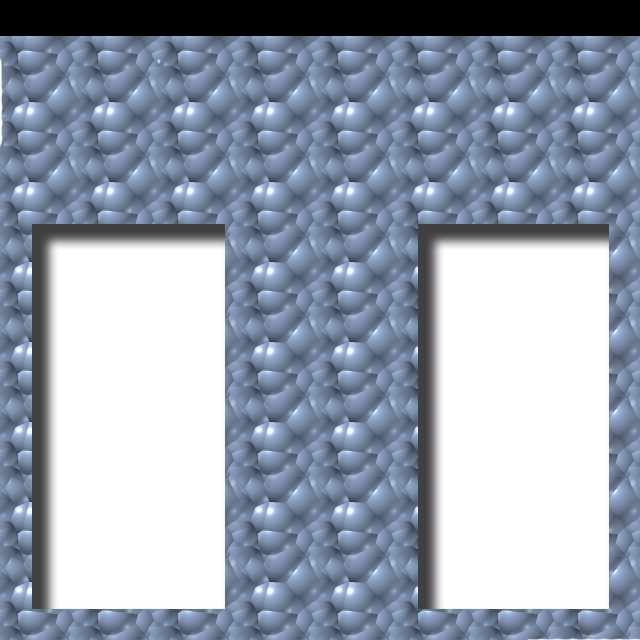
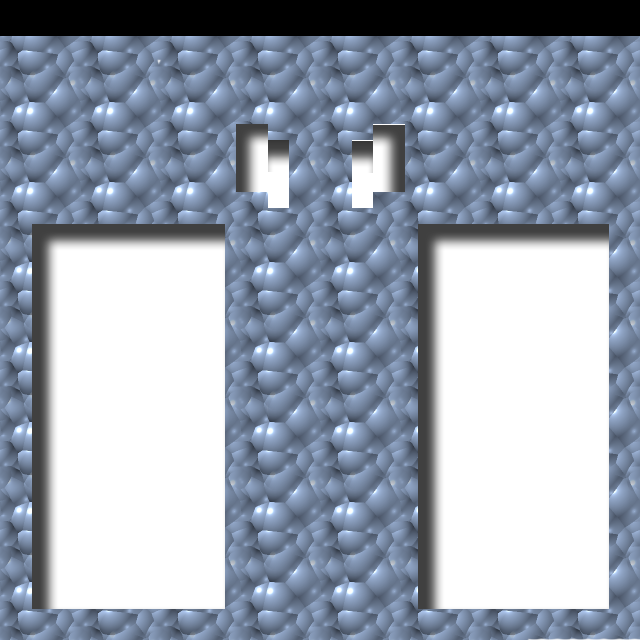
next peice holes

Changed region(s): [[0.5312, 0.1875, 0.6562, 0.3438], [0.3438, 0.1875, 0.4688, 0.3438], [0.0, 0.125, 0.0312, 0.2188]]

diff --git a/puyo.js b/puyo.js
@@ -91,6 +91,32 @@ Game.draw = function ()
       Game.context.drawImage(Game.sprites, i * sheetsize, j * sheetsize, sheetsize, sheetsize, offx + x * spritesize, offy + y * spritesize + 32, spritesize, spritesize);
     }
   }
+  var i = (Math.random() * 19) | 0;
+  var j = (Math.random() * 10) | 0;
+  Game.context.drawImage(Game.sprites, i * sheetsize, j * sheetsize, sheetsize, sheetsize, 238, 127, spritesize, spritesize);
+  var i = (Math.random() * 19) | 0;
+  var j = (Math.random() * 10) | 0;
+  Game.context.drawImage(Game.sprites, i * sheetsize, j * sheetsize, sheetsize, sheetsize, 238, 127+32, spritesize, spritesize);
+  var i = (Math.random() * 19) | 0;
+  var j = (Math.random() * 10) | 0;
+  Game.context.drawImage(Game.sprites, i * sheetsize, j * sheetsize, sheetsize, sheetsize, 270, 127+16, spritesize, spritesize);
+  var i = (Math.random() * 19) | 0;
+  var j = (Math.random() * 10) | 0;
+  Game.context.drawImage(Game.sprites, i * sheetsize, j * sheetsize, sheetsize, sheetsize, 270, 127 +16+ 32, spritesize, spritesize);
+
+  var i = (Math.random() * 19) | 0;
+  var j = (Math.random() * 10) | 0;
+  Game.context.drawImage(Game.sprites, i * sheetsize, j * sheetsize, sheetsize, sheetsize, 373, 127, spritesize, spritesize);
+  var i = (Math.random() * 19) | 0;
+  var j = (Math.random() * 10) | 0;
+  Game.context.drawImage(Game.sprites, i * sheetsize, j * sheetsize, sheetsize, sheetsize, 373, 127 + 32, spritesize, spritesize);
+  var i = (Math.random() * 19) | 0;
+  var j = (Math.random() * 10) | 0;
+  Game.context.drawImage(Game.sprites, i * sheetsize, j * sheetsize, sheetsize, sheetsize, 354-16, 127 + 16, spritesize, spritesize);
+  var i = (Math.random() * 19) | 0;
+  var j = (Math.random() * 10) | 0;
+  Game.context.drawImage(Game.sprites, i * sheetsize, j * sheetsize, sheetsize, sheetsize, 354-16, 127 + 16 + 32, spritesize, spritesize);
+
   offx = 320+64+32;
   for (var x = 0; x < 6; x += 1)
   {
